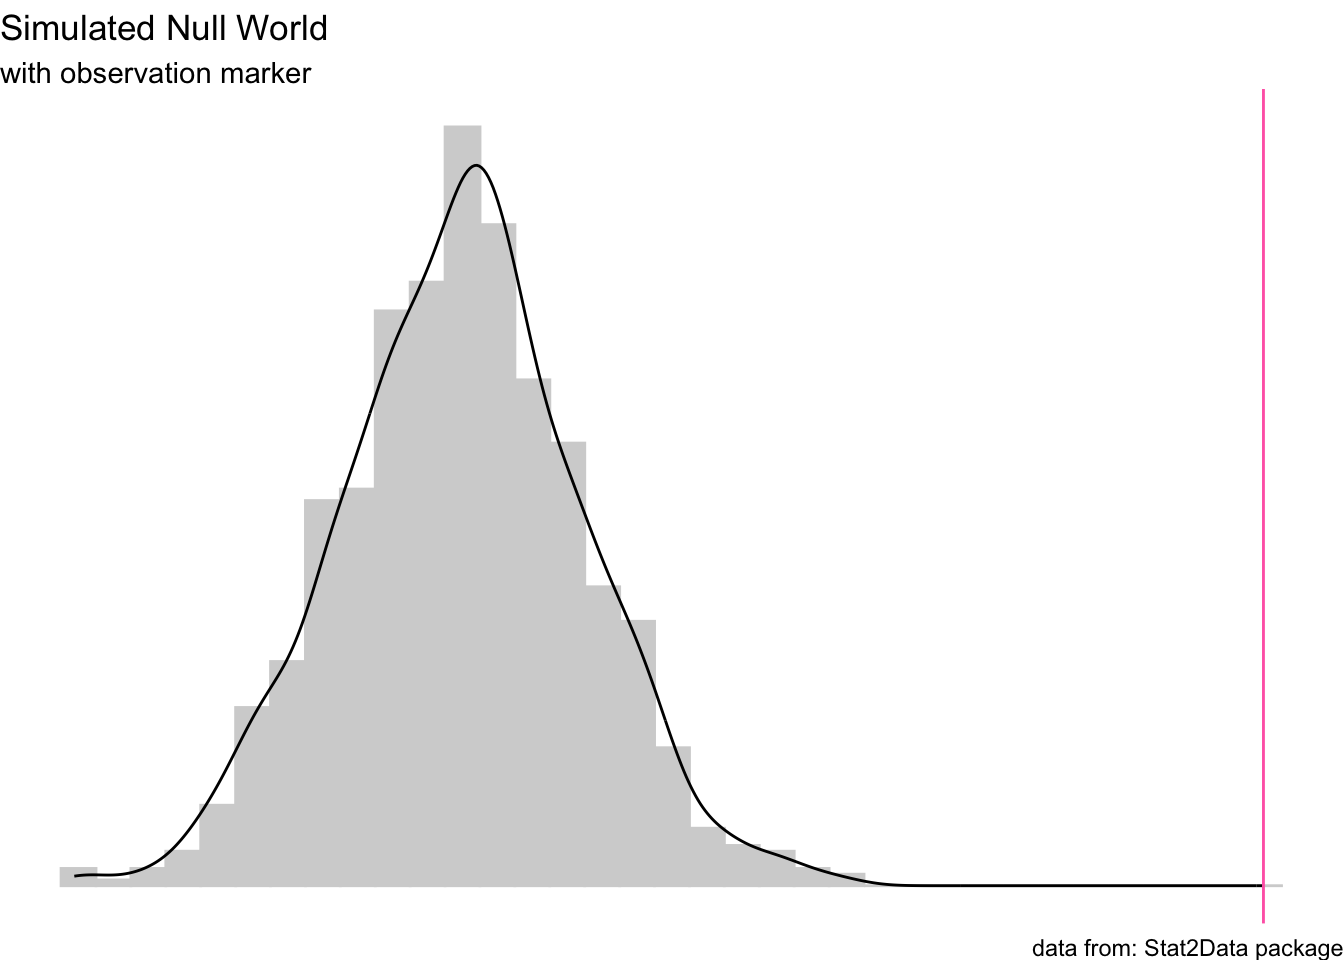
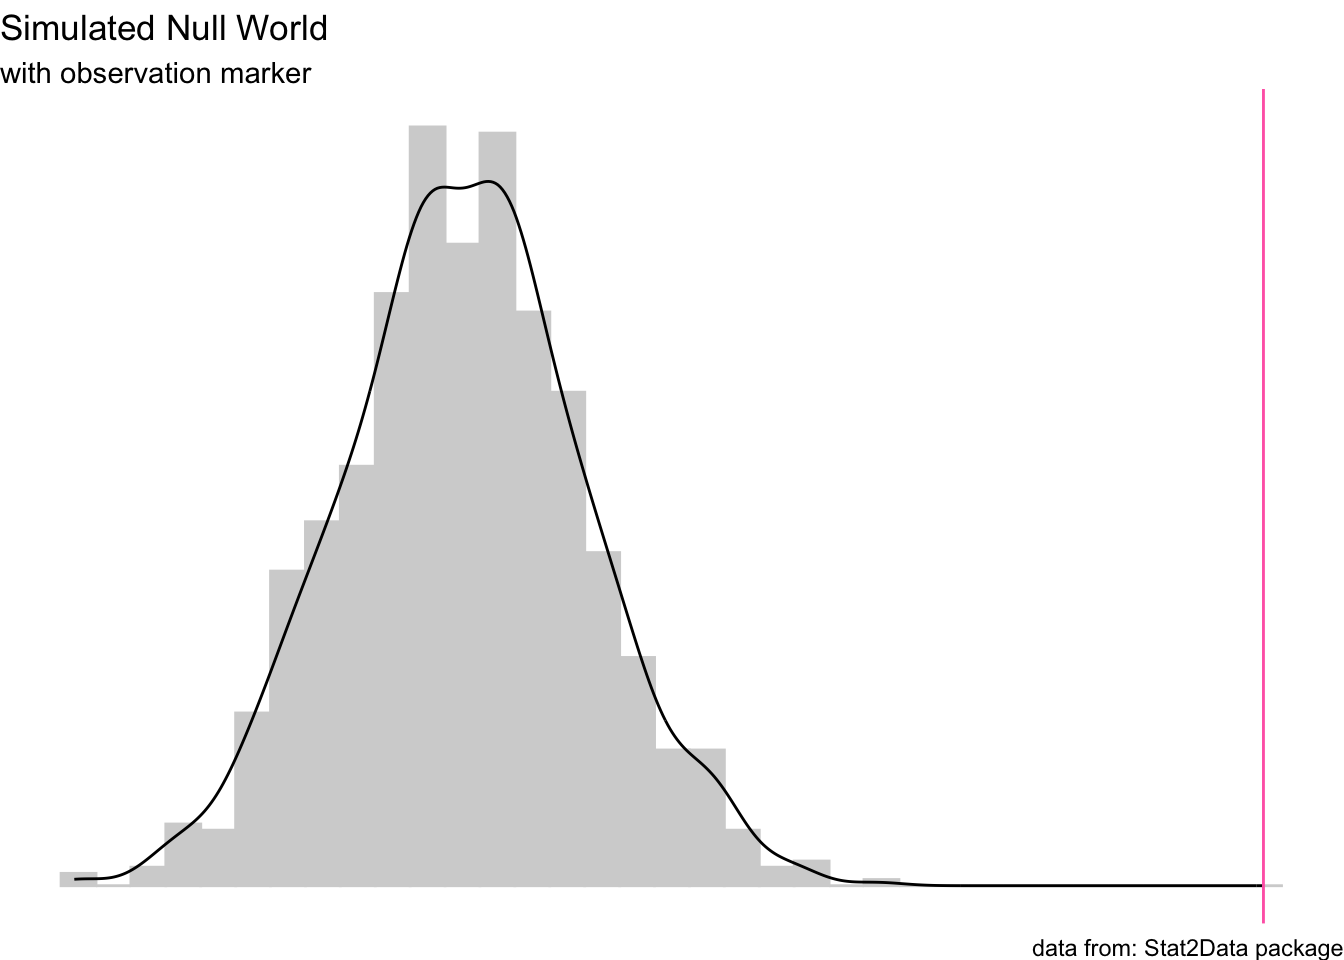
last edits

diff --git a/docs/mini_proj_2.html b/docs/mini_proj_2.html
@@ -187,7 +187,6 @@ pre > code.sourceCode > span > a:first-child::before { text-decoration: underlin
 </header>
 
 <div class="cell">
-<div class="sourceCode cell-code" id="cb1"><pre class="sourceCode r code-with-copy"><code class="sourceCode r"><span id="cb1-1"><a href="#cb1-1" aria-hidden="true" tabindex="-1"></a><span class="fu">library</span>(tidyverse)</span></code><button title="Copy to Clipboard" class="code-copy-button"><i class="bi"></i></button></pre></div>
 <div class="cell-output cell-output-stderr">
 <pre><code>── Attaching core tidyverse packages ──────────────────────── tidyverse 2.0.0 ──
 ✔ dplyr     1.1.4     ✔ readr     2.1.5
@@ -200,14 +199,9 @@ pre > code.sourceCode > span > a:first-child::before { text-decoration: underlin
 ✖ dplyr::lag()    masks stats::lag()
 ℹ Use the conflicted package (&lt;http://conflicted.r-lib.org/&gt;) to force all conflicts to become errors</code></pre>
 </div>
-<div class="sourceCode cell-code" id="cb3"><pre class="sourceCode r code-with-copy"><code class="sourceCode r"><span id="cb3-1"><a href="#cb3-1" aria-hidden="true" tabindex="-1"></a><span class="fu">library</span>(tidyr)</span>
-<span id="cb3-2"><a href="#cb3-2" aria-hidden="true" tabindex="-1"></a><span class="fu">library</span>(Stat2Data)</span>
-<span id="cb3-3"><a href="#cb3-3" aria-hidden="true" tabindex="-1"></a><span class="fu">library</span>(ggplot2)</span>
-<span id="cb3-4"><a href="#cb3-4" aria-hidden="true" tabindex="-1"></a><span class="fu">library</span>(ggthemes)</span>
-<span id="cb3-5"><a href="#cb3-5" aria-hidden="true" tabindex="-1"></a><span class="fu">data</span>(<span class="st">"Handwriting"</span>)</span></code><button title="Copy to Clipboard" class="code-copy-button"><i class="bi"></i></button></pre></div>
 </div>
 <div class="cell">
-<div class="sourceCode cell-code" id="cb4"><pre class="sourceCode r code-with-copy"><code class="sourceCode r"><span id="cb4-1"><a href="#cb4-1" aria-hidden="true" tabindex="-1"></a><span class="fu">t.test</span>(Both <span class="sc">~</span> Gender, <span class="at">data =</span> Handwriting)</span></code><button title="Copy to Clipboard" class="code-copy-button"><i class="bi"></i></button></pre></div>
+<div class="sourceCode cell-code" id="cb2"><pre class="sourceCode r code-with-copy"><code class="sourceCode r"><span id="cb2-1"><a href="#cb2-1" aria-hidden="true" tabindex="-1"></a><span class="fu">t.test</span>(Both <span class="sc">~</span> Gender, <span class="at">data =</span> Handwriting)</span></code><button title="Copy to Clipboard" class="code-copy-button"><i class="bi"></i></button></pre></div>
 <div class="cell-output cell-output-stdout">
 <pre><code>
     Welch Two Sample t-test
@@ -223,56 +217,54 @@ mean in group 0 mean in group 1
 </div>
 </div>
 <div class="cell">
-<div class="sourceCode cell-code" id="cb6"><pre class="sourceCode r code-with-copy"><code class="sourceCode r"><span id="cb6-1"><a href="#cb6-1" aria-hidden="true" tabindex="-1"></a>handwriting_small <span class="ot">&lt;-</span> Handwriting <span class="sc">|&gt;</span> </span>
-<span id="cb6-2"><a href="#cb6-2" aria-hidden="true" tabindex="-1"></a>  <span class="fu">drop_na</span>() <span class="sc">|&gt;</span></span>
-<span id="cb6-3"><a href="#cb6-3" aria-hidden="true" tabindex="-1"></a>  <span class="fu">mutate</span>(<span class="at">gender =</span> Gender, <span class="at">perc_correct =</span> Both) <span class="sc">|&gt;</span> </span>
-<span id="cb6-4"><a href="#cb6-4" aria-hidden="true" tabindex="-1"></a>  <span class="fu">select</span>(gender, perc_correct) <span class="sc">|&gt;</span></span>
-<span id="cb6-5"><a href="#cb6-5" aria-hidden="true" tabindex="-1"></a>  <span class="fu">group_by</span>(gender) <span class="sc">|&gt;</span></span>
-<span id="cb6-6"><a href="#cb6-6" aria-hidden="true" tabindex="-1"></a>  <span class="fu">summarize</span>(<span class="at">avg_perc =</span> <span class="fu">mean</span>(perc_correct))</span>
-<span id="cb6-7"><a href="#cb6-7" aria-hidden="true" tabindex="-1"></a></span>
-<span id="cb6-8"><a href="#cb6-8" aria-hidden="true" tabindex="-1"></a>gender_diff <span class="ot">&lt;-</span> handwriting_small[[<span class="dv">2</span>]][<span class="dv">2</span>] <span class="sc">-</span> handwriting_small[[<span class="dv">2</span>]][<span class="dv">1</span>]</span>
-<span id="cb6-9"><a href="#cb6-9" aria-hidden="true" tabindex="-1"></a></span>
-<span id="cb6-10"><a href="#cb6-10" aria-hidden="true" tabindex="-1"></a></span>
-<span id="cb6-11"><a href="#cb6-11" aria-hidden="true" tabindex="-1"></a>sim_gender_diffs <span class="ot">&lt;-</span> <span class="fu">vector</span>(<span class="st">"double"</span>, <span class="dv">1000</span>)</span>
-<span id="cb6-12"><a href="#cb6-12" aria-hidden="true" tabindex="-1"></a><span class="cf">for</span>(i <span class="cf">in</span> <span class="dv">1</span><span class="sc">:</span><span class="dv">1000</span>) {</span>
-<span id="cb6-13"><a href="#cb6-13" aria-hidden="true" tabindex="-1"></a>  handwriting_small <span class="ot">&lt;-</span> Handwriting <span class="sc">|&gt;</span></span>
-<span id="cb6-14"><a href="#cb6-14" aria-hidden="true" tabindex="-1"></a>    <span class="fu">drop_na</span>() <span class="sc">|&gt;</span></span>
-<span id="cb6-15"><a href="#cb6-15" aria-hidden="true" tabindex="-1"></a>    <span class="fu">mutate</span>(<span class="at">gender =</span> Gender, </span>
-<span id="cb6-16"><a href="#cb6-16" aria-hidden="true" tabindex="-1"></a>           <span class="at">perc_correct =</span> Both, </span>
-<span id="cb6-17"><a href="#cb6-17" aria-hidden="true" tabindex="-1"></a>           <span class="at">gender =</span> <span class="fu">sample</span>(gender)) <span class="sc">|&gt;</span></span>
-<span id="cb6-18"><a href="#cb6-18" aria-hidden="true" tabindex="-1"></a>    <span class="fu">group_by</span>(gender) <span class="sc">|&gt;</span></span>
-<span id="cb6-19"><a href="#cb6-19" aria-hidden="true" tabindex="-1"></a>    <span class="fu">summarize</span>(<span class="at">avg_perc =</span> <span class="fu">mean</span>(perc_correct))</span>
-<span id="cb6-20"><a href="#cb6-20" aria-hidden="true" tabindex="-1"></a>  sim_gender_diffs[[i]] <span class="ot">&lt;-</span> handwriting_small[[<span class="dv">2</span>]][<span class="dv">2</span>] <span class="sc">-</span> handwriting_small[[<span class="dv">2</span>]][<span class="dv">1</span>]</span>
-<span id="cb6-21"><a href="#cb6-21" aria-hidden="true" tabindex="-1"></a>}  </span>
-<span id="cb6-22"><a href="#cb6-22" aria-hidden="true" tabindex="-1"></a></span>
-<span id="cb6-23"><a href="#cb6-23" aria-hidden="true" tabindex="-1"></a>sim_null_world <span class="ot">&lt;-</span> <span class="fu">tibble</span>(<span class="at">sim_gender_diffs =</span> sim_gender_diffs)</span>
-<span id="cb6-24"><a href="#cb6-24" aria-hidden="true" tabindex="-1"></a><span class="fu">ggplot</span>(sim_null_world, <span class="fu">aes</span>(<span class="at">x =</span> sim_gender_diffs)) <span class="sc">+</span></span>
-<span id="cb6-25"><a href="#cb6-25" aria-hidden="true" tabindex="-1"></a>  <span class="fu">geom_histogram</span>(<span class="fu">aes</span>(<span class="at">y =</span> <span class="fu">after_stat</span>(density)), <span class="at">color =</span> <span class="st">"lightgrey"</span>, <span class="at">fill =</span> <span class="st">"lightgrey"</span>, <span class="at">binwidth =</span> <span class="fl">0.5</span>) <span class="sc">+</span></span>
-<span id="cb6-26"><a href="#cb6-26" aria-hidden="true" tabindex="-1"></a>  <span class="fu">geom_density</span>(<span class="at">col =</span> <span class="st">"black"</span>) <span class="sc">+</span></span>
-<span id="cb6-27"><a href="#cb6-27" aria-hidden="true" tabindex="-1"></a>  <span class="fu">geom_vline</span>(<span class="at">xintercept =</span> gender_diff, <span class="at">color =</span> <span class="st">"hotpink"</span>) <span class="sc">+</span></span>
-<span id="cb6-28"><a href="#cb6-28" aria-hidden="true" tabindex="-1"></a>  <span class="fu">labs</span>(<span class="at">title =</span> <span class="st">"Simulated Null World"</span>,</span>
-<span id="cb6-29"><a href="#cb6-29" aria-hidden="true" tabindex="-1"></a>       <span class="at">subtitle =</span> <span class="st">"with observation marker"</span>,</span>
-<span id="cb6-30"><a href="#cb6-30" aria-hidden="true" tabindex="-1"></a>       <span class="at">caption =</span> <span class="st">"data from: Stat2Data package"</span>,</span>
-<span id="cb6-31"><a href="#cb6-31" aria-hidden="true" tabindex="-1"></a>       ) <span class="sc">+</span></span>
-<span id="cb6-32"><a href="#cb6-32" aria-hidden="true" tabindex="-1"></a>  <span class="fu">theme_void</span>()</span></code><button title="Copy to Clipboard" class="code-copy-button"><i class="bi"></i></button></pre></div>
+<div class="sourceCode cell-code" id="cb4"><pre class="sourceCode r code-with-copy"><code class="sourceCode r"><span id="cb4-1"><a href="#cb4-1" aria-hidden="true" tabindex="-1"></a>handwriting_small <span class="ot">&lt;-</span> Handwriting <span class="sc">|&gt;</span> </span>
+<span id="cb4-2"><a href="#cb4-2" aria-hidden="true" tabindex="-1"></a>  <span class="fu">drop_na</span>() <span class="sc">|&gt;</span></span>
+<span id="cb4-3"><a href="#cb4-3" aria-hidden="true" tabindex="-1"></a>  <span class="fu">mutate</span>(<span class="at">gender =</span> Gender, <span class="at">perc_correct =</span> Both) <span class="sc">|&gt;</span> </span>
+<span id="cb4-4"><a href="#cb4-4" aria-hidden="true" tabindex="-1"></a>  <span class="fu">select</span>(gender, perc_correct) <span class="sc">|&gt;</span></span>
+<span id="cb4-5"><a href="#cb4-5" aria-hidden="true" tabindex="-1"></a>  <span class="fu">group_by</span>(gender) <span class="sc">|&gt;</span></span>
+<span id="cb4-6"><a href="#cb4-6" aria-hidden="true" tabindex="-1"></a>  <span class="fu">summarize</span>(<span class="at">avg_perc =</span> <span class="fu">mean</span>(perc_correct))</span>
+<span id="cb4-7"><a href="#cb4-7" aria-hidden="true" tabindex="-1"></a></span>
+<span id="cb4-8"><a href="#cb4-8" aria-hidden="true" tabindex="-1"></a>gender_diff <span class="ot">&lt;-</span> handwriting_small[[<span class="dv">2</span>]][<span class="dv">2</span>] <span class="sc">-</span> handwriting_small[[<span class="dv">2</span>]][<span class="dv">1</span>]</span>
+<span id="cb4-9"><a href="#cb4-9" aria-hidden="true" tabindex="-1"></a></span>
+<span id="cb4-10"><a href="#cb4-10" aria-hidden="true" tabindex="-1"></a></span>
+<span id="cb4-11"><a href="#cb4-11" aria-hidden="true" tabindex="-1"></a>sim_gender_diffs <span class="ot">&lt;-</span> <span class="fu">vector</span>(<span class="st">"double"</span>, <span class="dv">1000</span>)</span>
+<span id="cb4-12"><a href="#cb4-12" aria-hidden="true" tabindex="-1"></a><span class="cf">for</span>(i <span class="cf">in</span> <span class="dv">1</span><span class="sc">:</span><span class="dv">1000</span>) {</span>
+<span id="cb4-13"><a href="#cb4-13" aria-hidden="true" tabindex="-1"></a>  handwriting_small <span class="ot">&lt;-</span> Handwriting <span class="sc">|&gt;</span></span>
+<span id="cb4-14"><a href="#cb4-14" aria-hidden="true" tabindex="-1"></a>    <span class="fu">drop_na</span>() <span class="sc">|&gt;</span></span>
+<span id="cb4-15"><a href="#cb4-15" aria-hidden="true" tabindex="-1"></a>    <span class="fu">mutate</span>(<span class="at">gender =</span> Gender, </span>
+<span id="cb4-16"><a href="#cb4-16" aria-hidden="true" tabindex="-1"></a>           <span class="at">perc_correct =</span> Both, </span>
+<span id="cb4-17"><a href="#cb4-17" aria-hidden="true" tabindex="-1"></a>           <span class="at">gender =</span> <span class="fu">sample</span>(gender)) <span class="sc">|&gt;</span></span>
+<span id="cb4-18"><a href="#cb4-18" aria-hidden="true" tabindex="-1"></a>    <span class="fu">group_by</span>(gender) <span class="sc">|&gt;</span></span>
+<span id="cb4-19"><a href="#cb4-19" aria-hidden="true" tabindex="-1"></a>    <span class="fu">summarize</span>(<span class="at">avg_perc =</span> <span class="fu">mean</span>(perc_correct))</span>
+<span id="cb4-20"><a href="#cb4-20" aria-hidden="true" tabindex="-1"></a>  sim_gender_diffs[[i]] <span class="ot">&lt;-</span> handwriting_small[[<span class="dv">2</span>]][<span class="dv">2</span>] <span class="sc">-</span> handwriting_small[[<span class="dv">2</span>]][<span class="dv">1</span>]</span>
+<span id="cb4-21"><a href="#cb4-21" aria-hidden="true" tabindex="-1"></a>}  </span>
+<span id="cb4-22"><a href="#cb4-22" aria-hidden="true" tabindex="-1"></a></span>
+<span id="cb4-23"><a href="#cb4-23" aria-hidden="true" tabindex="-1"></a>sim_null_world <span class="ot">&lt;-</span> <span class="fu">tibble</span>(<span class="at">sim_gender_diffs =</span> sim_gender_diffs)</span>
+<span id="cb4-24"><a href="#cb4-24" aria-hidden="true" tabindex="-1"></a><span class="fu">ggplot</span>(sim_null_world, <span class="fu">aes</span>(<span class="at">x =</span> sim_gender_diffs)) <span class="sc">+</span></span>
+<span id="cb4-25"><a href="#cb4-25" aria-hidden="true" tabindex="-1"></a>  <span class="fu">geom_histogram</span>(<span class="fu">aes</span>(<span class="at">y =</span> <span class="fu">after_stat</span>(density)), <span class="at">color =</span> <span class="st">"lightgrey"</span>, <span class="at">fill =</span> <span class="st">"lightgrey"</span>, <span class="at">binwidth =</span> <span class="fl">0.5</span>) <span class="sc">+</span></span>
+<span id="cb4-26"><a href="#cb4-26" aria-hidden="true" tabindex="-1"></a>  <span class="fu">geom_density</span>(<span class="at">col =</span> <span class="st">"black"</span>) <span class="sc">+</span></span>
+<span id="cb4-27"><a href="#cb4-27" aria-hidden="true" tabindex="-1"></a>  <span class="fu">geom_vline</span>(<span class="at">xintercept =</span> gender_diff, <span class="at">color =</span> <span class="st">"hotpink"</span>) <span class="sc">+</span></span>
+<span id="cb4-28"><a href="#cb4-28" aria-hidden="true" tabindex="-1"></a>  <span class="fu">labs</span>(<span class="at">title =</span> <span class="st">"Simulated Null World"</span>,</span>
+<span id="cb4-29"><a href="#cb4-29" aria-hidden="true" tabindex="-1"></a>       <span class="at">subtitle =</span> <span class="st">"with observation marker"</span>,</span>
+<span id="cb4-30"><a href="#cb4-30" aria-hidden="true" tabindex="-1"></a>       <span class="at">caption =</span> <span class="st">"data from: Stat2Data package"</span></span>
+<span id="cb4-31"><a href="#cb4-31" aria-hidden="true" tabindex="-1"></a>       ) <span class="sc">+</span></span>
+<span id="cb4-32"><a href="#cb4-32" aria-hidden="true" tabindex="-1"></a>  <span class="fu">theme_void</span>()</span></code><button title="Copy to Clipboard" class="code-copy-button"><i class="bi"></i></button></pre></div>
 <div class="cell-output-display">
 <p><img src="mini_proj_2_files/figure-html/unnamed-chunk-3-1.png" class="img-fluid" width="672"></p>
 </div>
-<div class="sourceCode cell-code" id="cb7"><pre class="sourceCode r code-with-copy"><code class="sourceCode r"><span id="cb7-1"><a href="#cb7-1" aria-hidden="true" tabindex="-1"></a>find_p <span class="ot">&lt;-</span> <span class="cf">function</span>(x,y) {</span>
-<span id="cb7-2"><a href="#cb7-2" aria-hidden="true" tabindex="-1"></a>  p_value <span class="ot">&lt;-</span> <span class="fu">sum</span>(<span class="fu">abs</span>(x) <span class="sc">&gt;=</span> <span class="fu">abs</span>(y)) <span class="sc">/</span> <span class="dv">1000</span></span>
-<span id="cb7-3"><a href="#cb7-3" aria-hidden="true" tabindex="-1"></a>  </span>
-<span id="cb7-4"><a href="#cb7-4" aria-hidden="true" tabindex="-1"></a>p_value</span>
-<span id="cb7-5"><a href="#cb7-5" aria-hidden="true" tabindex="-1"></a>}</span>
-<span id="cb7-6"><a href="#cb7-6" aria-hidden="true" tabindex="-1"></a></span>
-<span id="cb7-7"><a href="#cb7-7" aria-hidden="true" tabindex="-1"></a><span class="fu">find_p</span>(sim_gender_diffs, gender_diff)</span></code><button title="Copy to Clipboard" class="code-copy-button"><i class="bi"></i></button></pre></div>
+<div class="sourceCode cell-code" id="cb5"><pre class="sourceCode r code-with-copy"><code class="sourceCode r"><span id="cb5-1"><a href="#cb5-1" aria-hidden="true" tabindex="-1"></a>find_p <span class="ot">&lt;-</span> <span class="cf">function</span>(x,y) {</span>
+<span id="cb5-2"><a href="#cb5-2" aria-hidden="true" tabindex="-1"></a>  p_value <span class="ot">&lt;-</span> <span class="fu">sum</span>(<span class="fu">abs</span>(x) <span class="sc">&gt;=</span> <span class="fu">abs</span>(y)) <span class="sc">/</span> <span class="dv">1000</span></span>
+<span id="cb5-3"><a href="#cb5-3" aria-hidden="true" tabindex="-1"></a>  </span>
+<span id="cb5-4"><a href="#cb5-4" aria-hidden="true" tabindex="-1"></a>p_value</span>
+<span id="cb5-5"><a href="#cb5-5" aria-hidden="true" tabindex="-1"></a>}</span>
+<span id="cb5-6"><a href="#cb5-6" aria-hidden="true" tabindex="-1"></a></span>
+<span id="cb5-7"><a href="#cb5-7" aria-hidden="true" tabindex="-1"></a><span class="fu">find_p</span>(sim_gender_diffs, gender_diff)</span></code><button title="Copy to Clipboard" class="code-copy-button"><i class="bi"></i></button></pre></div>
 <div class="cell-output cell-output-stdout">
 <pre><code>[1] 0</code></pre>
 </div>
 </div>
-<p>For this project I used the Handwriting dataset from the Stat2Data R package. The Handwriting dataset comes from a survey where participants were asked to identify the gender of the author based on the handwriting presented. I chose to look at the relationship between gender of the participant and average performance (by gender) on the survey. I used a loop to simulate the null world by shuffling the data 1000 times and recording the difference of the average between genders after each one.</p>
-<p>This graph shows the simulated null world distribution and has a vertical line marker that represents the real world observation. The p-value for this observation is <strong>0</strong>. This means that women’s performance was statistically significantly higher than men’s performance on the survey.</p>
-<p><strong>i know that my p_value is not actually zero, is this just because in the null world it didn’t happen in 1,000 tries but it could potentially happen in the null world</strong></p>
-<p><strong>is it okay that there is no x lab because this theme doesn’t support x labs I want consistency across the things on my website and my othe graph has this theme</strong></p>
+<p>For this project I used the Handwriting dataset from the Stat2Data R package. The Handwriting dataset comes from a survey where participants were asked to identify the gender of the author based on the handwriting presented. I chose to look at the relationship between gender of the participant and average performance (by gender) on the survey. The x-axis of the graph represents the simulated gender differences in average correct identification of handwriting. I used a loop to simulate the null world by shuffling the data 1000 times and recording the difference of the average between genders after each one.</p>
+<p>This graph shows the simulated null world distribution and has a vertical line marker that represents the real world observation. The p-value for this observation is &lt; <strong>0.001</strong>. When I calculated the p-value for this observation (given my simulation of 1,000 events) I get the number 0 because my observation or something higher didn’t happen in the 1,000 simulated trials, but the p-value is never truly exactly zero. The size of this p-value means that women’s performance was statistically significantly higher than men’s performance on the survey.</p>
 
 
 
